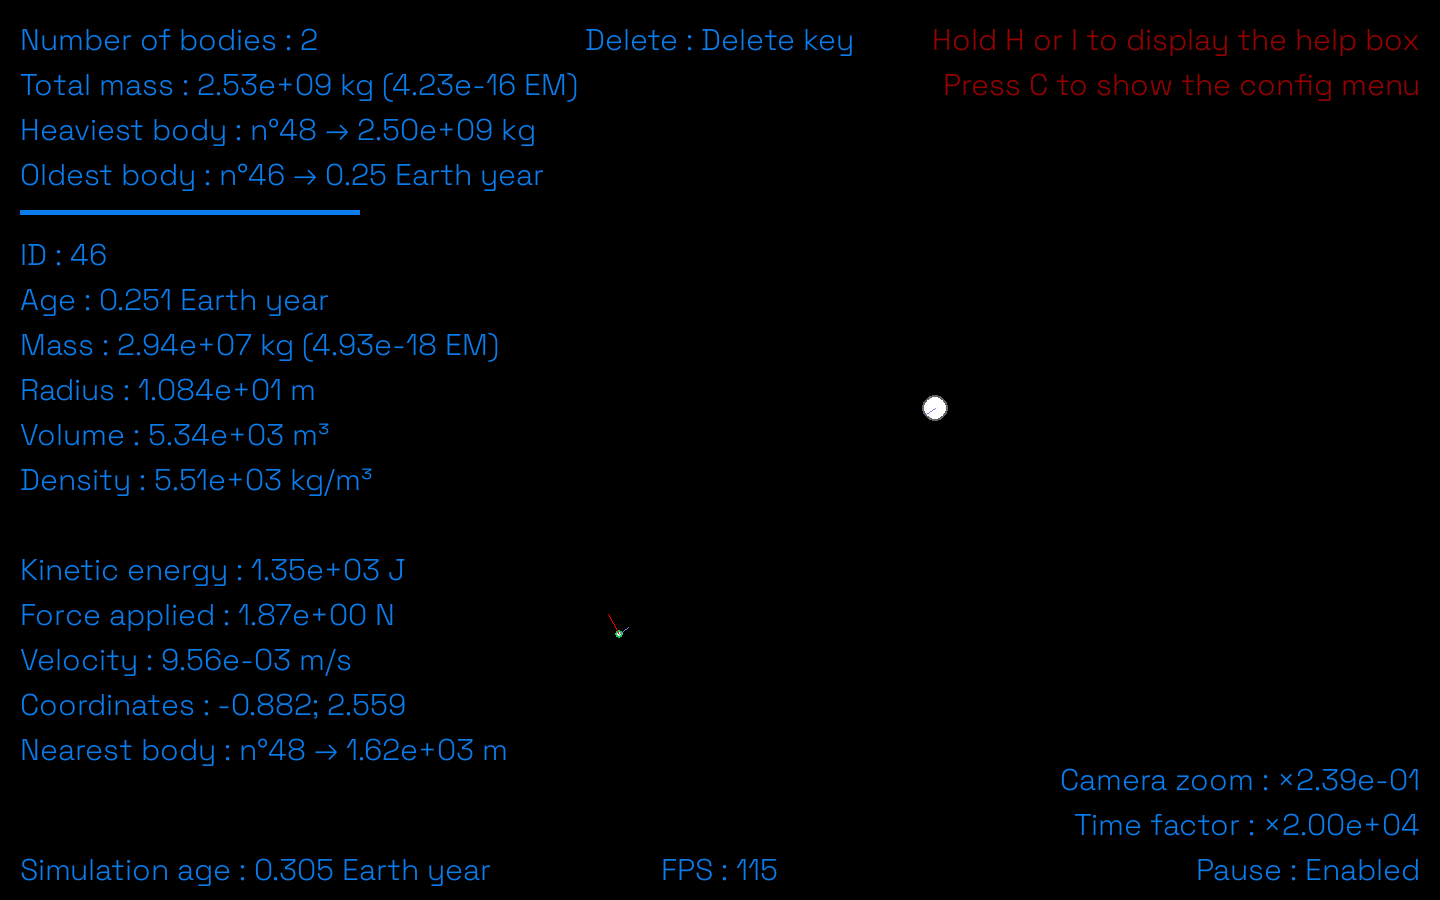
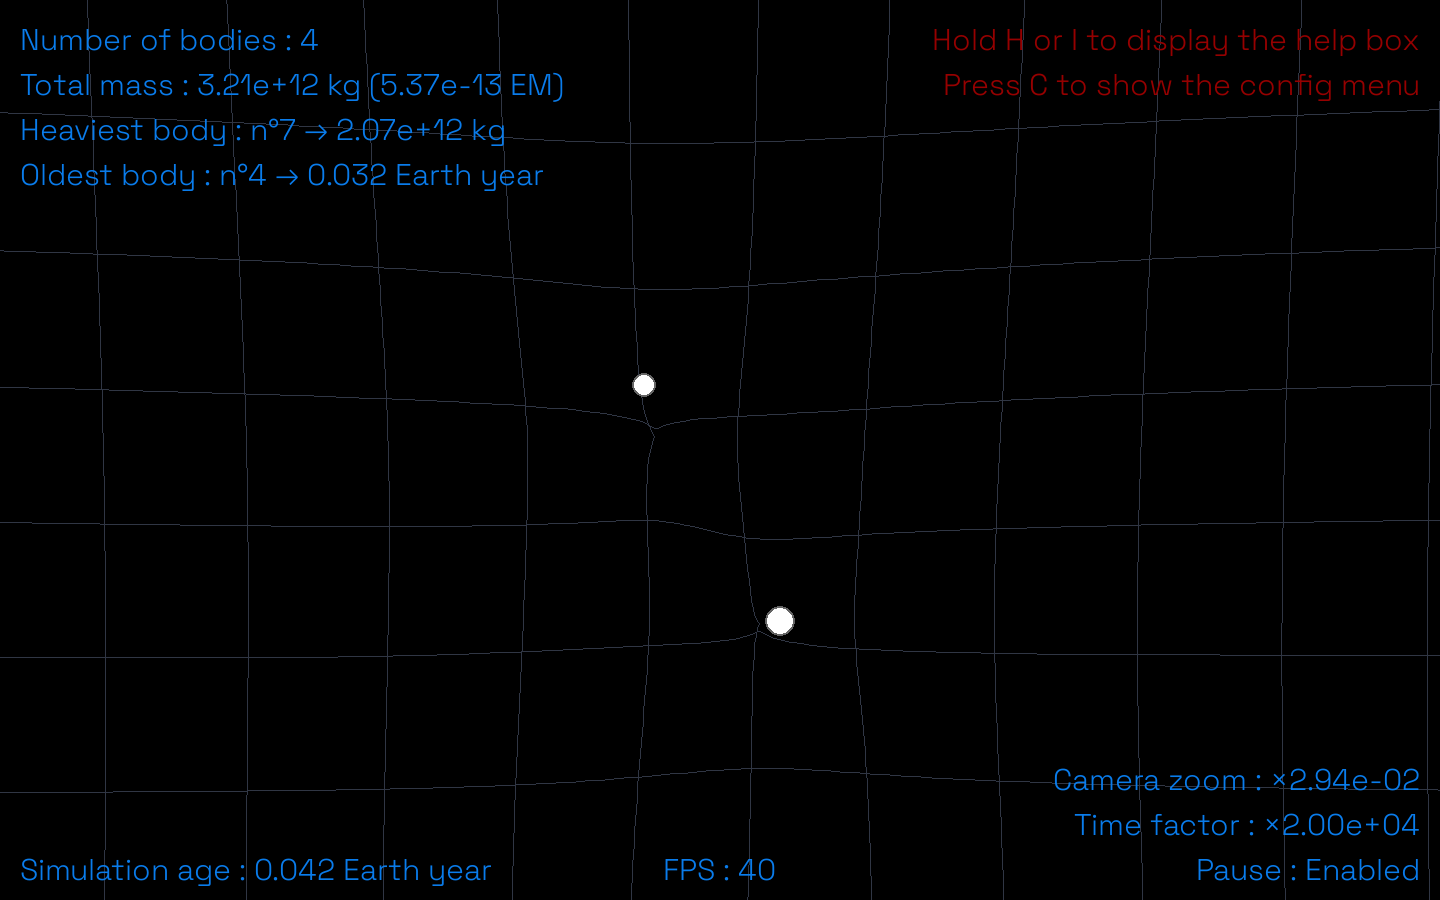
Update REDME.md

diff --git a/README.md b/README.md
@@ -182,7 +182,7 @@ Assets are bundled via `--add-data "assets;assets"`. Path resolution uses `sys._
 
 Press `C` to open. Parameters take effect immediately.
 
-<p align="center"><img src="previews/preview_4.png" width="80%" alt="Configuration panel"></p>
+<p align="center"><img src="previews/preview_3.png" width="80%" alt="Configuration panel"></p>
 
 **Simulation**
 
@@ -223,6 +223,8 @@ Press `C` to open. Parameters take effect immediately.
 ---
 
 ## Physics
+
+<p align="center"><img src="previews/preview_4.png" width="80%" alt="Multiple bodies with velocity/force vectors"></p>
 
 ### Gravitational Force
 
@@ -338,6 +340,8 @@ All modules import `state` and access `state.engine` / `state.circles` directly.
 
 ## Educational Use
 
+<p align="center"><img src="previews/preview_5.png" width="80%" alt="Multiple bodies with velocity/force vectors"></p>
+
 GravityEngine demonstrates:
 
 - Newton's law of universal gravitation (F = Gm₁m₂/r²)
@@ -346,8 +350,8 @@ GravityEngine demonstrates:
 - Render/physics decoupling via linear interpolation
 - World-to-screen coordinate transformation
 - Gravitational lensing approximation (visual, Newtonian-inspired)
-- N-body problem (classical, O(n²) per step)
-- Custom UI design in Pygame
+- N-body problem (classical, O(n²) per step, or quadtree method)
+- Custom UI design with python using pygame
 
 ---
 
